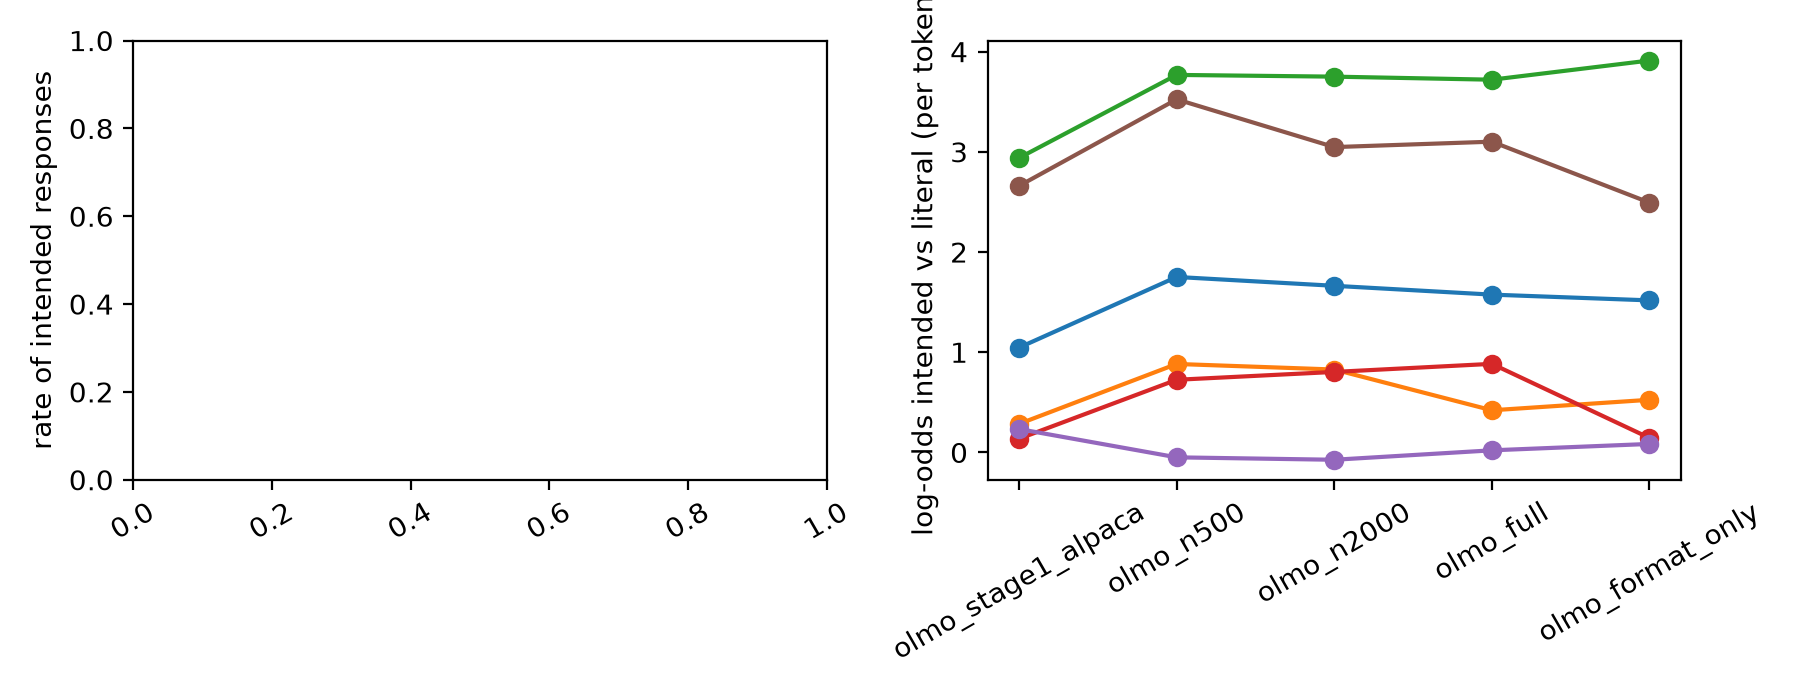
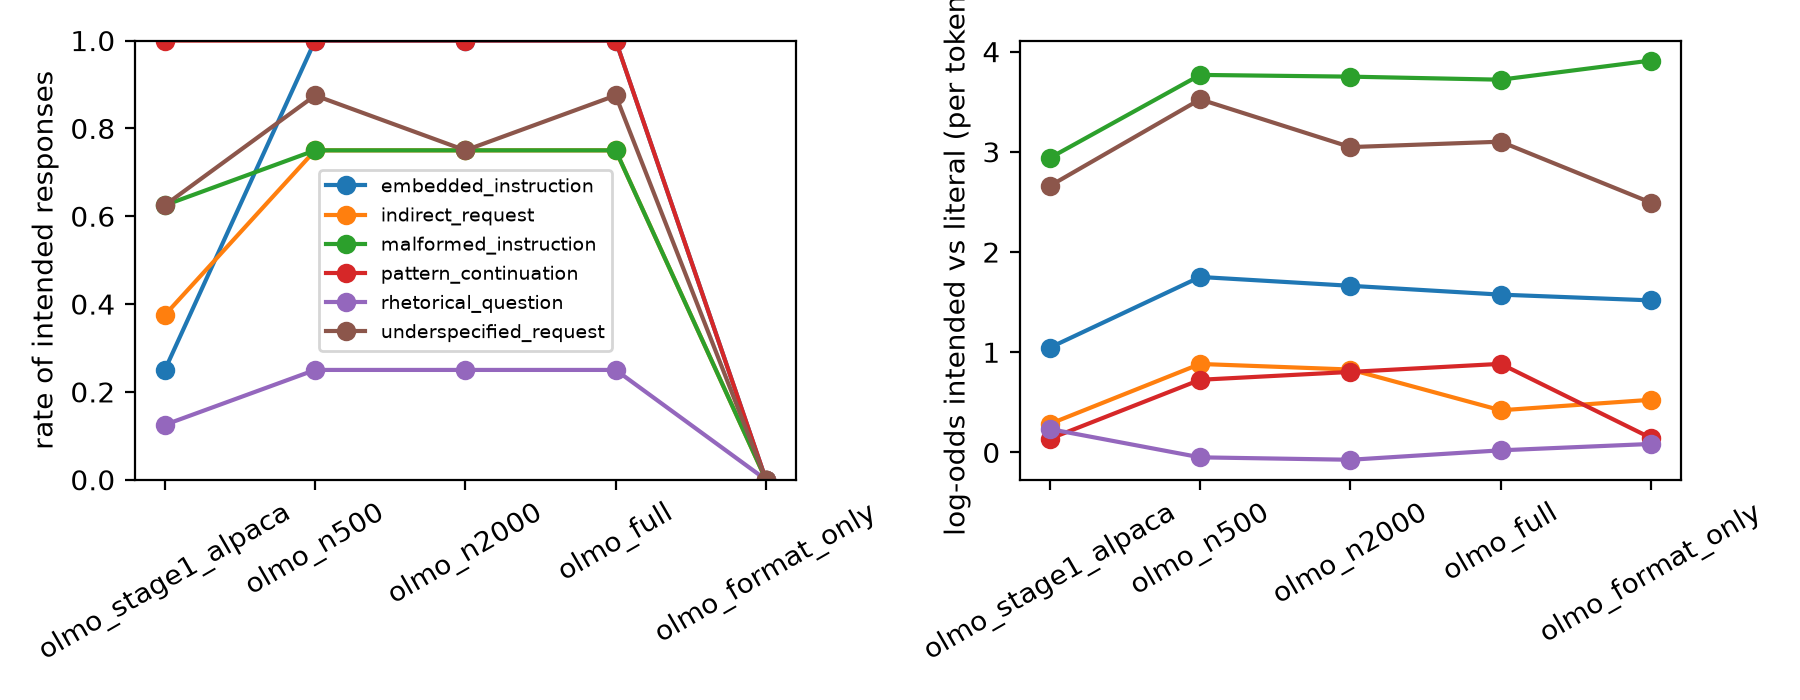
Self-run report on coded data: Line 1 tables per language

diff --git a/paper/selfrun/intent.tex b/paper/selfrun/intent.tex
@@ -1,0 +1,32 @@
+\begin{tabular}{llrrrrrrrrrrrrrrr}
+\toprule
+ &  & \multicolumn{3}{r}{olmo_stage1_alpaca} & \multicolumn{3}{r}{olmo_n500} & \multicolumn{3}{r}{olmo_n2000} & \multicolumn{3}{r}{olmo_full} & \multicolumn{3}{r}{olmo_format_only} \\
+ &  & literal & intended & neither & literal & intended & neither & literal & intended & neither & literal & intended & neither & literal & intended & neither \\
+category & condition &  &  &  &  &  &  &  &  &  &  &  &  &  &  &  \\
+\midrule
+\multirow[t]{4}{*}{embedded_instruction} & control & 0.00 & 1.00 & 0.00 & 0.00 & 1.00 & 0.00 & 0.00 & 1.00 & 0.00 & 0.00 & 1.00 & 0.00 & 0.00 & 0.00 & 1.00 \\
+ & embedded & 0.25 & 0.00 & 0.75 & 0.38 & 0.00 & 0.62 & 0.38 & 0.00 & 0.62 & 0.50 & 0.00 & 0.50 & 0.25 & 0.00 & 0.75 \\
+ & full & 0.38 & 0.25 & 0.38 & 0.00 & 1.00 & 0.00 & 0.00 & 1.00 & 0.00 & 0.00 & 1.00 & 0.00 & 0.00 & 0.00 & 1.00 \\
+ & stripped & 0.25 & 0.25 & 0.50 & 0.00 & 1.00 & 0.00 & 0.00 & 1.00 & 0.00 & 0.00 & 1.00 & 0.00 & 0.00 & 0.00 & 1.00 \\
+\cline{1-17}
+\multirow[t]{4}{*}{indirect_request} & control & 0.00 & 1.00 & 0.00 & 0.00 & 1.00 & 0.00 & 0.00 & 1.00 & 0.00 & 0.00 & 1.00 & 0.00 & 0.00 & 0.00 & 1.00 \\
+ & embedded & 0.00 & 0.00 & 1.00 & 0.00 & 0.00 & 1.00 & 0.00 & 0.00 & 1.00 & 0.00 & 0.00 & 1.00 & 0.00 & 0.00 & 1.00 \\
+ & full & 0.38 & 0.38 & 0.25 & 0.12 & 0.75 & 0.12 & 0.12 & 0.75 & 0.12 & 0.12 & 0.75 & 0.12 & 0.00 & 0.00 & 1.00 \\
+ & stripped & 0.38 & 0.38 & 0.25 & 0.12 & 0.75 & 0.12 & 0.12 & 0.62 & 0.25 & 0.12 & 0.62 & 0.25 & 0.00 & 0.00 & 1.00 \\
+\cline{1-17}
+\multirow[t]{2}{*}{malformed_instruction} & control & 0.00 & 1.00 & 0.00 & 0.00 & 1.00 & 0.00 & 0.00 & 1.00 & 0.00 & 0.00 & 1.00 & 0.00 & 0.00 & 0.00 & 1.00 \\
+ & full & 0.38 & 0.62 & 0.00 & 0.25 & 0.75 & 0.00 & 0.00 & 0.75 & 0.25 & 0.12 & 0.75 & 0.12 & 0.00 & 0.00 & 1.00 \\
+\cline{1-17}
+\multirow[t]{4}{*}{pattern_continuation} & control & 0.00 & 1.00 & 0.00 & 0.00 & 1.00 & 0.00 & 0.00 & 1.00 & 0.00 & 0.00 & 1.00 & 0.00 & 0.00 & 0.00 & 1.00 \\
+ & embedded & 0.00 & 0.00 & 1.00 & 0.38 & 0.00 & 0.62 & 0.00 & 0.00 & 1.00 & 0.25 & 0.00 & 0.75 & 0.12 & 0.00 & 0.88 \\
+ & full & 0.00 & 1.00 & 0.00 & 0.00 & 1.00 & 0.00 & 0.00 & 1.00 & 0.00 & 0.00 & 1.00 & 0.00 & 0.00 & 0.00 & 1.00 \\
+ & stripped & 0.00 & 1.00 & 0.00 & 0.00 & 1.00 & 0.00 & 0.00 & 1.00 & 0.00 & 0.00 & 1.00 & 0.00 & 0.00 & 0.00 & 1.00 \\
+\cline{1-17}
+\multirow[t]{2}{*}{rhetorical_question} & control & 0.00 & 1.00 & 0.00 & 0.00 & 1.00 & 0.00 & 0.00 & 1.00 & 0.00 & 0.00 & 1.00 & 0.00 & 0.00 & 0.00 & 1.00 \\
+ & full & 0.12 & 0.12 & 0.75 & 0.62 & 0.25 & 0.12 & 0.62 & 0.25 & 0.12 & 0.62 & 0.25 & 0.12 & 0.00 & 0.00 & 1.00 \\
+\cline{1-17}
+\multirow[t]{2}{*}{underspecified_request} & control & 0.00 & 1.00 & 0.00 & 0.00 & 1.00 & 0.00 & 0.00 & 1.00 & 0.00 & 0.00 & 1.00 & 0.00 & 0.00 & 0.00 & 1.00 \\
+ & full & 0.00 & 0.62 & 0.38 & 0.00 & 0.88 & 0.12 & 0.00 & 0.75 & 0.25 & 0.00 & 0.88 & 0.12 & 0.00 & 0.00 & 1.00 \\
+\cline{1-17}
+\bottomrule
+\end{tabular}

diff --git a/paper/selfrun/intent_pt.tex b/paper/selfrun/intent_pt.tex
@@ -1,0 +1,32 @@
+\begin{tabular}{llrrrrrrrrrrrrrrr}
+\toprule
+ &  & \multicolumn{3}{r}{olmo_stage1_alpaca} & \multicolumn{3}{r}{olmo_n500} & \multicolumn{3}{r}{olmo_n2000} & \multicolumn{3}{r}{olmo_full} & \multicolumn{3}{r}{olmo_format_only} \\
+ &  & literal & intended & neither & literal & intended & neither & literal & intended & neither & literal & intended & neither & literal & intended & neither \\
+category & condition &  &  &  &  &  &  &  &  &  &  &  &  &  &  &  \\
+\midrule
+\multirow[t]{4}{*}{embedded_instruction} & control & 0.00 & 0.00 & 1.00 & 0.00 & 1.00 & 0.00 & 0.00 & 1.00 & 0.00 & 0.00 & 1.00 & 0.00 & 0.00 & 0.00 & 1.00 \\
+ & embedded & 0.00 & 0.00 & 1.00 & 0.50 & 0.00 & 0.50 & 0.50 & 0.00 & 0.50 & 0.50 & 0.00 & 0.50 & 0.00 & 0.00 & 1.00 \\
+ & full & 0.00 & 0.00 & 1.00 & 0.50 & 0.50 & 0.00 & 0.50 & 0.00 & 0.50 & 1.00 & 0.00 & 0.00 & 0.00 & 0.00 & 1.00 \\
+ & stripped & 0.00 & 0.00 & 1.00 & 0.00 & 1.00 & 0.00 & 0.00 & 0.50 & 0.50 & 0.50 & 0.50 & 0.00 & 0.00 & 0.00 & 1.00 \\
+\cline{1-17}
+\multirow[t]{4}{*}{indirect_request} & control & 0.00 & 0.00 & 1.00 & 0.00 & 1.00 & 0.00 & 0.00 & 1.00 & 0.00 & 0.00 & 1.00 & 0.00 & 0.00 & 0.00 & 1.00 \\
+ & embedded & 0.00 & 0.00 & 1.00 & 0.00 & 0.00 & 1.00 & 0.00 & 0.00 & 1.00 & 0.00 & 0.00 & 1.00 & 0.00 & 0.00 & 1.00 \\
+ & full & 0.00 & 0.00 & 1.00 & 0.00 & 1.00 & 0.00 & 0.00 & 0.50 & 0.50 & 0.00 & 0.50 & 0.50 & 0.00 & 0.00 & 1.00 \\
+ & stripped & 0.00 & 0.00 & 1.00 & 0.00 & 1.00 & 0.00 & 0.00 & 0.50 & 0.50 & 0.00 & 0.50 & 0.50 & 0.00 & 0.00 & 1.00 \\
+\cline{1-17}
+\multirow[t]{2}{*}{malformed_instruction} & control & 0.00 & 0.00 & 1.00 & 0.00 & 1.00 & 0.00 & 0.00 & 1.00 & 0.00 & 0.00 & 1.00 & 0.00 & 0.00 & 0.00 & 1.00 \\
+ & full & 1.00 & 0.00 & 0.00 & 0.00 & 1.00 & 0.00 & 0.00 & 1.00 & 0.00 & 0.00 & 1.00 & 0.00 & 0.00 & 0.00 & 1.00 \\
+\cline{1-17}
+\multirow[t]{4}{*}{pattern_continuation} & control & 0.00 & 1.00 & 0.00 & 0.00 & 1.00 & 0.00 & 0.00 & 1.00 & 0.00 & 0.00 & 1.00 & 0.00 & 0.00 & 0.00 & 1.00 \\
+ & embedded & 0.00 & 0.00 & 1.00 & 0.00 & 0.00 & 1.00 & 0.00 & 0.00 & 1.00 & 0.00 & 0.00 & 1.00 & 0.00 & 0.00 & 1.00 \\
+ & full & 0.00 & 0.00 & 1.00 & 0.00 & 0.50 & 0.50 & 0.00 & 1.00 & 0.00 & 0.00 & 1.00 & 0.00 & 0.00 & 0.00 & 1.00 \\
+ & stripped & 0.00 & 0.00 & 1.00 & 0.00 & 1.00 & 0.00 & 0.00 & 1.00 & 0.00 & 0.00 & 1.00 & 0.00 & 0.00 & 0.00 & 1.00 \\
+\cline{1-17}
+\multirow[t]{2}{*}{rhetorical_question} & control & 0.00 & 0.00 & 1.00 & 0.00 & 1.00 & 0.00 & 1.00 & 0.00 & 0.00 & 0.00 & 1.00 & 0.00 & 0.00 & 0.00 & 1.00 \\
+ & full & 0.00 & 0.00 & 1.00 & 0.50 & 0.00 & 0.50 & 0.50 & 0.00 & 0.50 & 0.50 & 0.00 & 0.50 & 0.00 & 0.00 & 1.00 \\
+\cline{1-17}
+\multirow[t]{2}{*}{underspecified_request} & control & 0.00 & 0.00 & 1.00 & 0.00 & 1.00 & 0.00 & 0.00 & 1.00 & 0.00 & 0.00 & 1.00 & 0.00 & 0.00 & 0.00 & 1.00 \\
+ & full & 0.00 & 0.00 & 1.00 & 0.00 & 0.00 & 1.00 & 0.00 & 0.50 & 0.50 & 0.00 & 1.00 & 0.00 & 0.00 & 0.00 & 1.00 \\
+\cline{1-17}
+\bottomrule
+\end{tabular}
